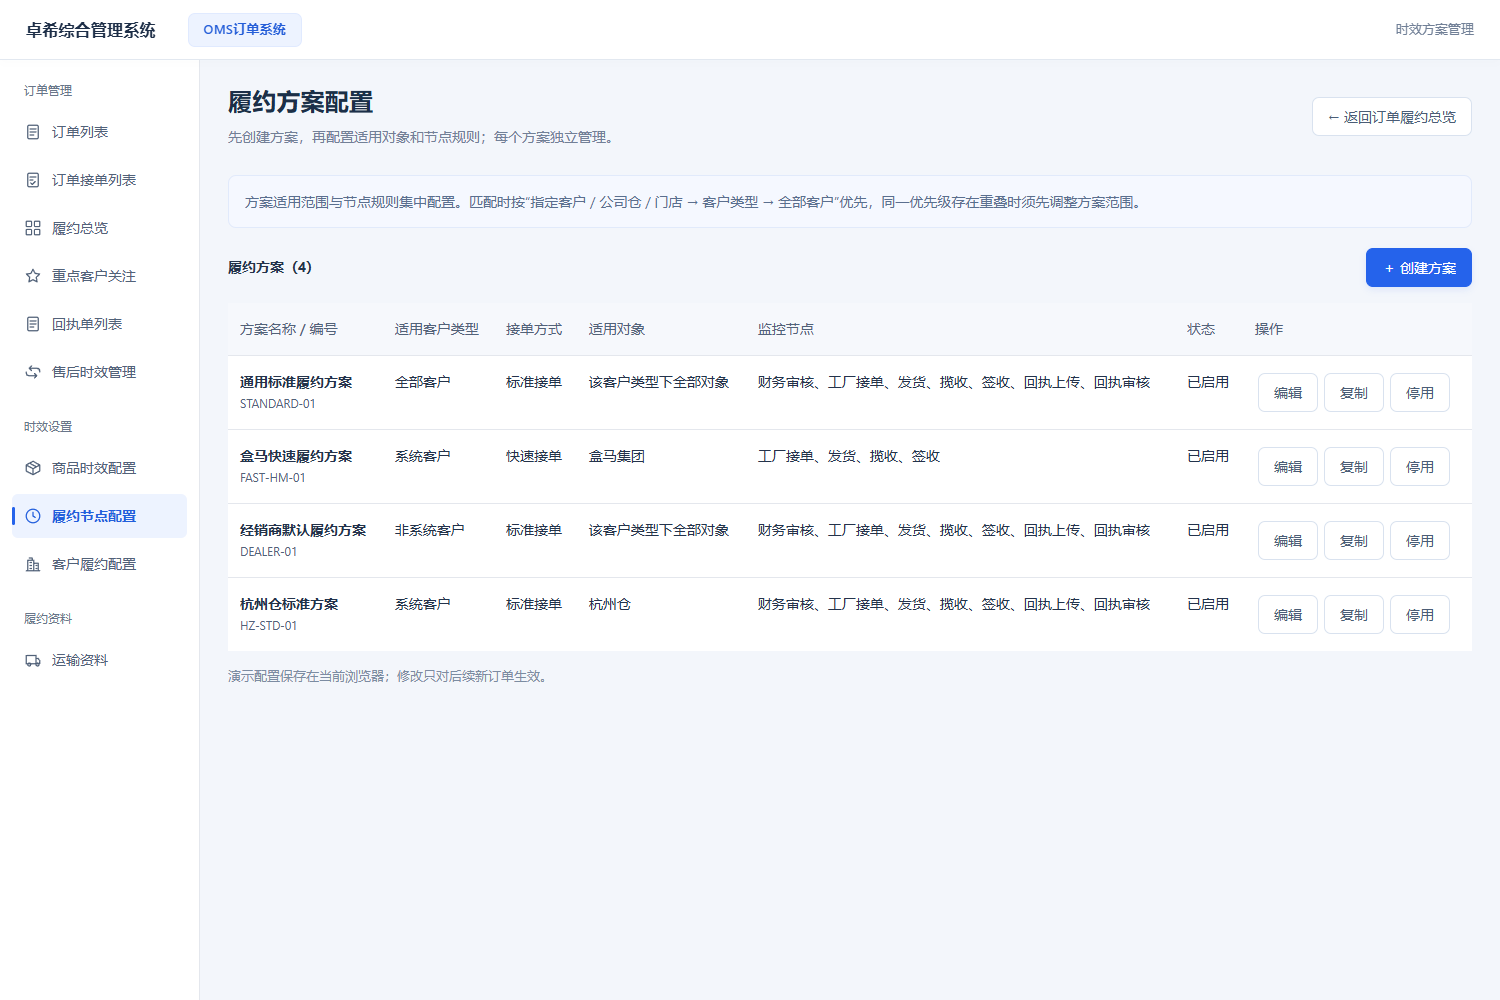
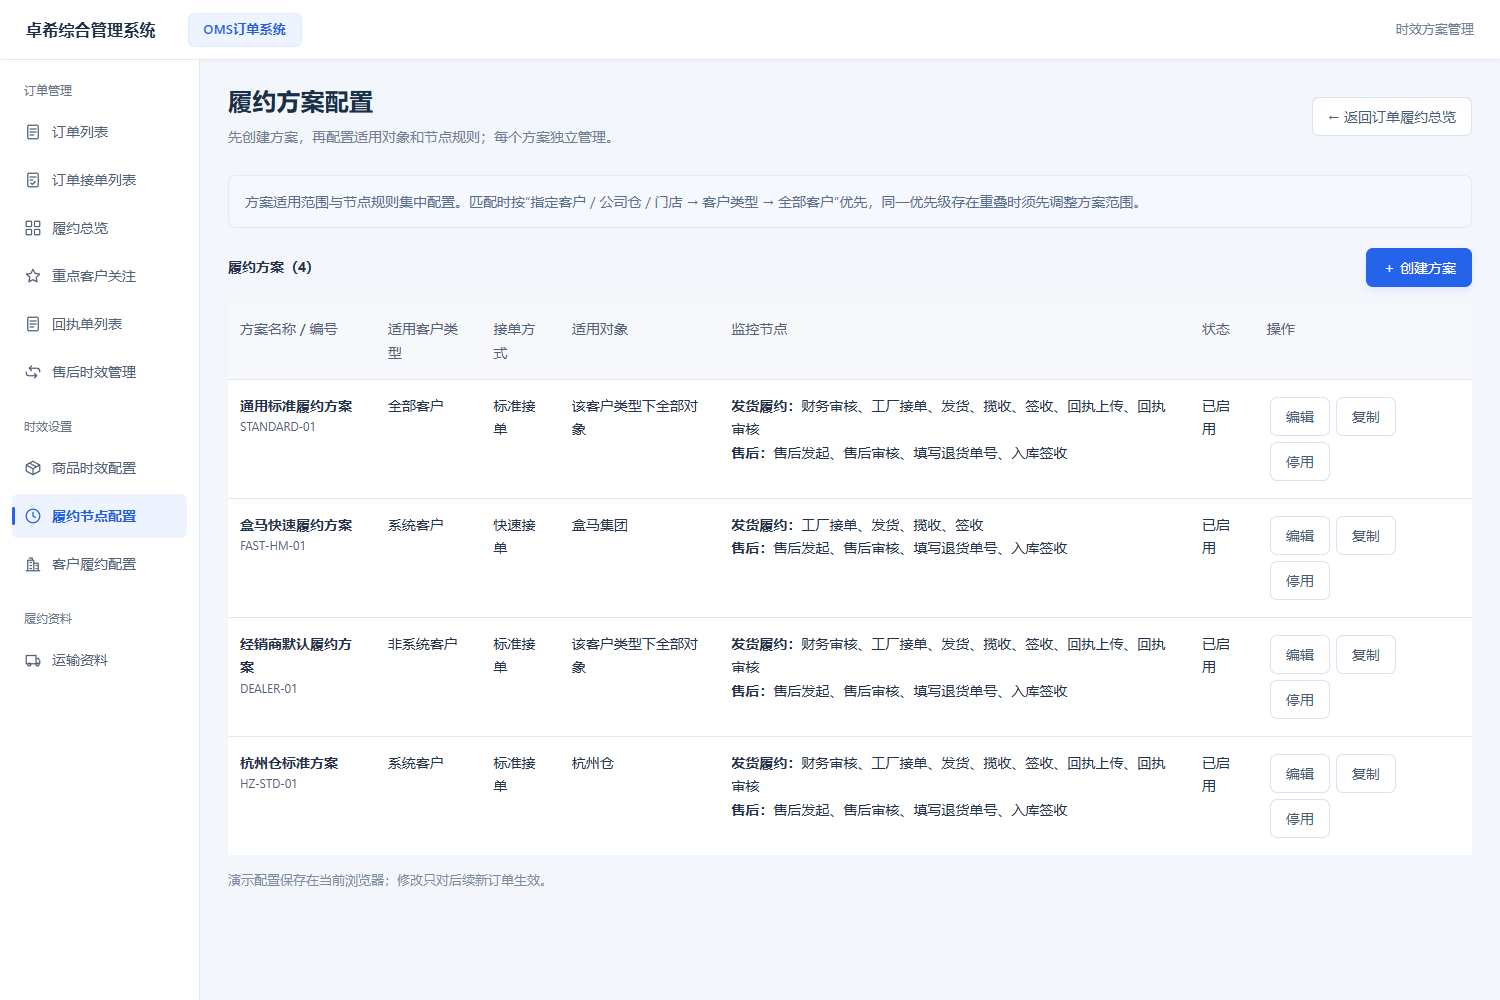
Auto sync 2026-10-26 14:20:34

diff --git a/09-设计与原型/20-订单履约时效管理原型V4/履约方案管理.js b/09-设计与原型/20-订单履约时效管理原型V4/履约方案管理.js
@@ -9,10 +9,10 @@ function withAfterRules(p){return {...p,rules:[...p.rules,...afterRules.filter(r
 let edit=null;const root=document.getElementById('nodesView');root.innerHTML='';document.querySelector('.page-head h1').textContent='履约方案配置';document.querySelector('.page-head p').textContent='先创建方案，再配置适用对象和节点规则；每个方案独立管理。';document.getElementById('storageStatus').textContent='演示配置保存在当前浏览器；修改只对后续新订单生效。';
 const style=document.createElement('style');style.textContent='.scheme-toolbar{display:flex;align-items:center;justify-content:space-between;margin:16px 0;gap:16px}.scheme-table{width:100%;border-collapse:collapse;background:white}.scheme-table th,.scheme-table td{padding:14px 12px;text-align:left;border-bottom:1px solid #e4e7ed;vertical-align:top;line-height:1.7}.scheme-table th{background:#f6f8fc;color:#526279;font-weight:500}.scheme-panel{background:white;border:1px solid #dce4ef;border-radius:8px;padding:24px;margin:16px 0}.scheme-fields{display:grid;grid-template-columns:1fr 1fr;gap:16px 24px}.scheme-fields label{display:block;line-height:1.8}.scheme-fields input,.scheme-fields select,.scheme-table input,.scheme-table select{padding:8px;border:1px solid #d4deed;border-radius:4px;width:100%;font:inherit;box-sizing:border-box}.scheme-table input[type=checkbox]{width:18px;height:18px}.scheme-targets[hidden]{display:none!important}.scheme-targets{display:flex;flex-wrap:wrap;gap:12px;margin:12px 0}.scheme-targets label{display:flex;gap:8px;align-items:center;padding:8px 12px;border:1px solid #dce4ef;border-radius:4px}.scheme-footer{display:flex;justify-content:flex-end;gap:12px;margin-top:24px}.scheme-panel h2{font-size:17px;margin:0 0 16px}.scheme-panel h3{font-size:15px;margin:24px 0 12px}.scheme-note{color:#526279;font-size:13px;line-height:1.8}.scheme-error{color:#b42318;margin-top:12px}.scheme-table .btn{margin:3px;white-space:nowrap}.scheme-table small{display:block;color:#526279}.scheme-panel :focus-visible{outline:2px solid #2563eb;outline-offset:2px}@media(max-width:760px){.scheme-fields{grid-template-columns:1fr}.scheme-panel{padding:16px}}';document.head.append(style);
 function customers(){let data={};try{data=JSON.parse(localStorage.getItem('shipping-address-arrival-v4')||'{}')}catch{}return [...new Set(['盒马集团','华东公司','上海仓','杭州仓','浦东门店','华东经销集团',...Object.keys(data.customers||{})])]}
-function list(){edit=null;root.innerHTML='<div class="note">方案适用范围与节点规则集中配置。匹配时按“指定客户 / 公司仓 / 门店 → 客户类型 → 全部客户”优先，同一优先级存在重叠时须先调整方案范围。</div><div class="scheme-toolbar"><b>履约方案（'+plans.length+'）</b><button class="btn primary" onclick="schemeNew()">＋ 创建方案</button></div><div style="overflow:auto"><table class="scheme-table"><thead><tr><th>方案名称 / 编号</th><th>适用客户类型</th><th>接单方式</th><th>适用对象</th><th>监控节点</th><th>状态</th><th>操作</th></tr></thead><tbody>'+plans.map(p=>'<tr data-scheme="'+esc(p.id)+'"><td><b>'+esc(p.name)+'</b><small>'+esc(p.id)+'</small></td><td>'+p.type+'</td><td>'+p.mode+'</td><td>'+(p.targets.length?p.targets.map(esc).join('、'):'该客户类型下全部对象')+'</td><td>'+p.rules.filter(r=>r.on).map(r=>labels[r.id]).join('、')+'</td><td>'+(p.enabled?'已启用':'已停用')+'</td><td><button class="btn" onclick="schemeEdit(\''+esc(p.id)+'\')">编辑</button><button class="btn" onclick="schemeCopy(\''+esc(p.id)+'\')">复制</button><button class="btn" onclick="schemeToggle(\''+esc(p.id)+'\')">'+(p.enabled?'停用':'启用')+'</button></td></tr>').join('')+'</tbody></table></div>'}
-function draw(){root.innerHTML='<div class="scheme-toolbar"><button class="btn" onclick="schemeCancel()">← 返回方案列表</button><b>'+(plans.some(p=>p.id===edit.originalId)?'编辑方案':'创建方案')+'</b></div><form id="schemeForm" class="scheme-panel"><h2>1. 方案信息</h2><div class="scheme-fields"><label>方案名称 *<input name="name" required maxlength="80" value="'+esc(edit.name)+'"></label><label>方案编号 *<input name="code" required pattern="[A-Za-z0-9_-]+" value="'+esc(edit.id)+'" '+(edit.originalId?'readonly':'')+'></label><label>接单方式<select name="mode">'+['标准接单','快速接单'].map(x=>'<option '+(edit.mode===x?'selected':'')+'>'+x+'</option>').join('')+'</select></label><label>每日截单时间<input name="cutoff" type="time" required value="'+edit.cutoff+'"></label></div><h3>2. 适用对象</h3><div class="scheme-fields"><label>客户类型<select name="type">'+['全部客户','系统客户','非系统客户'].map(x=>'<option '+(edit.type===x?'selected':'')+'>'+x+'</option>').join('')+'</select></label><label>适用范围<select id="targetScope"><option value="all" '+(!edit.targets.length?'selected':'')+'>该客户类型下全部对象</option><option value="specific" '+(edit.targets.length?'selected':'')+'>指定集团 / 公司仓 / 门店</option></select></label></div><div id="schemeTargets" class="scheme-targets" '+(!edit.targets.length?'hidden':'')+'>'+customers().map(x=>'<label><input type="checkbox" name="target" value="'+esc(x)+'" '+(edit.targets.includes(x)?'checked':'')+'>'+esc(x)+'</label>').join('')+'</div><p class="scheme-note">集团、公司仓、门店按实际订单收货对象匹配；选择指定对象后仅对所选对象生效。客户地址的到货要求继续在客户履约配置维护。</p><h3>3. 节点时限与责任</h3><p class="scheme-note">每行独立配置是否监控、时限、预警比例及责任角色。财务与接单并行；连续自然小时计时，多商品发货取最长时效。</p><div style="overflow:auto"><table class="scheme-table"><thead><tr><th>监控</th><th>节点</th><th>处理时限（小时）</th><th>预警比例（%）</th><th>责任角色</th></tr></thead><tbody>'+edit.rules.map((r,i)=>'<tr><td><input aria-label="监控'+labels[r.id]+'" type="checkbox" name="on'+i+'" '+(r.on?'checked':'')+'></td><td>'+labels[r.id]+'</td><td>'+(r.id==='ship'?'<span>读取商品有货 / 无货时效</span><input type="hidden" name="hours'+i+'" value="'+r.value+'">':'<input aria-label="'+labels[r.id]+'时限" name="hours'+i+'" type="number" min="0.1" max="8760" step="0.1" required value="'+r.value+'">')+'</td><td><input name="warn'+i+'" aria-label="'+labels[r.id]+'预警比例" type="number" min="1" max="99" required value="'+r.warn+'"></td><td><select aria-label="'+labels[r.id]+'责任角色" name="owner'+i+'">'+roles.map(x=>'<option '+(r.owner===x?'selected':'')+'>'+x+'</option>').join('')+'</select></td></tr>').join('')+'</tbody></table></div><p class="scheme-note">启用后仅匹配新订单；历史订单保留原方案及规则版本。停用只停止新订单匹配，已生成任务继续按快照执行。</p><p id="schemeError" class="scheme-error" role="alert"></p><div class="scheme-footer"><button type="button" class="btn" onclick="schemeCancel()">取消</button><button class="btn primary">保存方案</button></div></form>';document.getElementById('targetScope').onchange=e=>{document.getElementById('schemeTargets').hidden=e.target.value==='all'};document.getElementById('schemeForm').onsubmit=submit}
+function list(){edit=null;root.innerHTML='<div class="note">方案适用范围与节点规则集中配置。匹配时按“指定客户 / 公司仓 / 门店 → 客户类型 → 全部客户”优先，同一优先级存在重叠时须先调整方案范围。</div><div class="scheme-toolbar"><b>履约方案（'+plans.length+'）</b><button class="btn primary" onclick="schemeNew()">＋ 创建方案</button></div><div style="overflow:auto"><table class="scheme-table"><thead><tr><th>方案名称 / 编号</th><th>适用客户类型</th><th>接单方式</th><th>适用对象</th><th>监控节点</th><th>状态</th><th>操作</th></tr></thead><tbody>'+plans.map(p=>'<tr data-scheme="'+esc(p.id)+'"><td><b>'+esc(p.name)+'</b><small>'+esc(p.id)+'</small></td><td>'+p.type+'</td><td>'+p.mode+'</td><td>'+(p.targets.length?p.targets.map(esc).join('、'):'该客户类型下全部对象')+'</td><td>'+'<b>发货履约：</b>'+p.rules.filter(r=>r.on&&!r.id.startsWith('after')).map(r=>labels[r.id]).join('、')+'<br><b>售后：</b>'+p.rules.filter(r=>r.on&&r.id.startsWith('after')).map(r=>labels[r.id]).join('、')+'</td><td>'+(p.enabled?'已启用':'已停用')+'</td><td><button class="btn" onclick="schemeEdit(\''+esc(p.id)+'\')">编辑</button><button class="btn" onclick="schemeCopy(\''+esc(p.id)+'\')">复制</button><button class="btn" onclick="schemeToggle(\''+esc(p.id)+'\')">'+(p.enabled?'停用':'启用')+'</button></td></tr>').join('')+'</tbody></table></div>'}
+function draw(){root.innerHTML='<div class="scheme-toolbar"><button class="btn" onclick="schemeCancel()">← 返回方案列表</button><b>'+(plans.some(p=>p.id===edit.originalId)?'编辑方案':'创建方案')+'</b></div><form id="schemeForm" class="scheme-panel"><h2>1. 方案信息</h2><div class="scheme-fields"><label>方案名称 *<input name="name" required maxlength="80" value="'+esc(edit.name)+'"></label><label>方案编号 *<input name="code" required pattern="[A-Za-z0-9_-]+" value="'+esc(edit.id)+'" '+(edit.originalId?'readonly':'')+'></label><label>接单方式<select name="mode">'+['标准接单','快速接单'].map(x=>'<option '+(edit.mode===x?'selected':'')+'>'+x+'</option>').join('')+'</select></label><label>每日截单时间<input name="cutoff" type="time" required value="'+edit.cutoff+'"></label></div><h3>2. 适用对象</h3><div class="scheme-fields"><label>客户类型<select name="type">'+['全部客户','系统客户','非系统客户'].map(x=>'<option '+(edit.type===x?'selected':'')+'>'+x+'</option>').join('')+'</select></label><label>适用范围<select id="targetScope"><option value="all" '+(!edit.targets.length?'selected':'')+'>该客户类型下全部对象</option><option value="specific" '+(edit.targets.length?'selected':'')+'>指定集团 / 公司仓 / 门店</option></select></label></div><div id="schemeTargets" class="scheme-targets" '+(!edit.targets.length?'hidden':'')+'>'+customers().map(x=>'<label><input type="checkbox" name="target" value="'+esc(x)+'" '+(edit.targets.includes(x)?'checked':'')+'>'+esc(x)+'</label>').join('')+'</div><p class="scheme-note">集团、公司仓、门店按实际订单收货对象匹配；选择指定对象后仅对所选对象生效。客户地址的到货要求继续在客户履约配置维护。</p><h3>3. 节点时限与责任</h3><p class="scheme-note">每行独立配置是否监控、时限、预警比例及责任角色。财务与接单并行；连续自然小时计时，多商品发货取最长时效。</p><div style="overflow:auto"><table class="scheme-table"><thead><tr><th>监控</th><th>节点</th><th>处理时限（小时）</th><th>预警比例（%）</th><th>责任角色</th></tr></thead><tbody>'+edit.rules.map((r,i)=>(i===0?'<tr><th colspan="5">发货履约节点</th></tr>':r.id==='afterInitiate'?'<tr><th colspan="5">售后节点</th></tr>':'')+'<tr><td><input aria-label="监控'+labels[r.id]+'" type="checkbox" name="on'+i+'" '+(r.on?'checked':'')+'></td><td>'+labels[r.id]+(r.id.startsWith('after')?'<small>'+esc(r.note)+'</small>':'')+'</td><td>'+(r.id==='ship'?'<span>读取商品有货 / 无货时效</span><input type="hidden" name="hours'+i+'" value="'+r.value+'">':'<input aria-label="'+labels[r.id]+'时限" name="hours'+i+'" type="number" min="0.1" max="8760" step="0.1" required value="'+r.value+'">')+'</td><td><input name="warn'+i+'" aria-label="'+labels[r.id]+'预警比例" type="number" min="1" max="99" required value="'+r.warn+'"></td><td><select aria-label="'+labels[r.id]+'责任角色" name="owner'+i+'">'+roles.map(x=>'<option '+(r.owner===x?'selected':'')+'>'+x+'</option>').join('')+'</select></td></tr>').join('')+'</tbody></table></div><p class="scheme-note">启用后仅匹配新订单；历史订单保留原方案及规则版本。停用只停止新订单匹配，已生成任务继续按快照执行。</p><p id="schemeError" class="scheme-error" role="alert"></p><div class="scheme-footer"><button type="button" class="btn" onclick="schemeCancel()">取消</button><button class="btn primary">保存方案</button></div></form>';document.getElementById('targetScope').onchange=e=>{document.getElementById('schemeTargets').hidden=e.target.value==='all'};document.getElementById('schemeForm').onsubmit=submit}
 function persist(next,action){const before=localStorage.getItem(key);localStorage.setItem(key,JSON.stringify(next));try{const history=JSON.parse(localStorage.getItem(key+'-audit')||'[]');history.push({at:new Date().toISOString(),action,before:before?JSON.parse(before):plans,after:next});localStorage.setItem(key+'-audit',JSON.stringify(history))}catch{}plans=next}
 function submit(e){e.preventDefault();const f=e.target,d=f.elements,targets=document.getElementById('targetScope').value==='specific'?[...f.querySelectorAll('[name=target]:checked')].map(x=>x.value):[];try{if(document.getElementById('targetScope').value==='specific'&&!targets.length)throw Error('请至少选择一个适用对象');const p={...edit,id:d.code.value.trim(),name:d.name.value.trim(),type:d.type.value,mode:d.mode.value,cutoff:d.cutoff.value,targets,version:new Date().toISOString(),rules:edit.rules.map((r,i)=>({...r,on:d['on'+i].checked,value:+d['hours'+i].value,warn:+d['warn'+i].value,owner:d['owner'+i].value}))};delete p.originalId;if(!p.name||!p.id)throw Error('请填写方案名称和编号');if(plans.some(x=>x.id===p.id&&x.id!==edit.originalId))throw Error('方案编号已存在，请使用其他编号');if(!p.rules.some(r=>r.on))throw Error('请至少启用一个监控节点');if(plans.some(x=>x.id!==edit.originalId&&x.enabled&&p.enabled&&x.type===p.type&&x.mode===p.mode&&(x.targets.length===0&&p.targets.length===0||x.targets.some(t=>p.targets.includes(t)))))throw Error('存在同优先级适用对象重叠的启用方案，请调整对象、客户类型或接单方式');persist([...plans.filter(x=>x.id!==edit.originalId),p],'保存方案 '+p.id);list()}catch(err){document.getElementById('schemeError').textContent=err.message}}
-window.schemeNew=()=>{edit=template('','', '系统客户','标准接单',[]);draw()};window.schemeEdit=id=>{edit={...clone(plans.find(p=>p.id===id)),originalId:id};draw()};window.schemeCopy=id=>{edit=clone(plans.find(p=>p.id===id));edit.name+='（副本）';edit.id+='-COPY-'+Date.now().toString().slice(-4);edit.enabled=false;draw()};window.schemeCancel=list;window.schemeToggle=id=>{const p=plans.find(p=>p.id===id);if(!p.enabled&&plans.some(x=>x.id!==id&&x.enabled&&x.type===p.type&&x.mode===p.mode&&(x.targets.length===0&&p.targets.length===0||x.targets.some(t=>p.targets.includes(t))))){alert('存在同优先级适用范围重叠，请先编辑方案范围。');return}try{persist(plans.map(x=>x.id===id?{...x,enabled:!x.enabled}:x),'切换方案状态 '+id);list()}catch(err){alert('保存失败：'+err.message)}};
+window.schemeNew=()=>{edit=withAfterRules(template('','', '系统客户','标准接单',[]));draw()};window.schemeEdit=id=>{edit={...clone(plans.find(p=>p.id===id)),originalId:id};draw()};window.schemeCopy=id=>{edit=clone(plans.find(p=>p.id===id));edit.name+='（副本）';edit.id+='-COPY-'+Date.now().toString().slice(-4);edit.enabled=false;draw()};window.schemeCancel=list;window.schemeToggle=id=>{const p=plans.find(p=>p.id===id);if(!p.enabled&&plans.some(x=>x.id!==id&&x.enabled&&x.type===p.type&&x.mode===p.mode&&(x.targets.length===0&&p.targets.length===0||x.targets.some(t=>p.targets.includes(t))))){alert('存在同优先级适用范围重叠，请先编辑方案范围。');return}try{persist(plans.map(x=>x.id===id?{...x,enabled:!x.enabled}:x),'切换方案状态 '+id);list()}catch(err){alert('保存失败：'+err.message)}};
 list();
 })();
